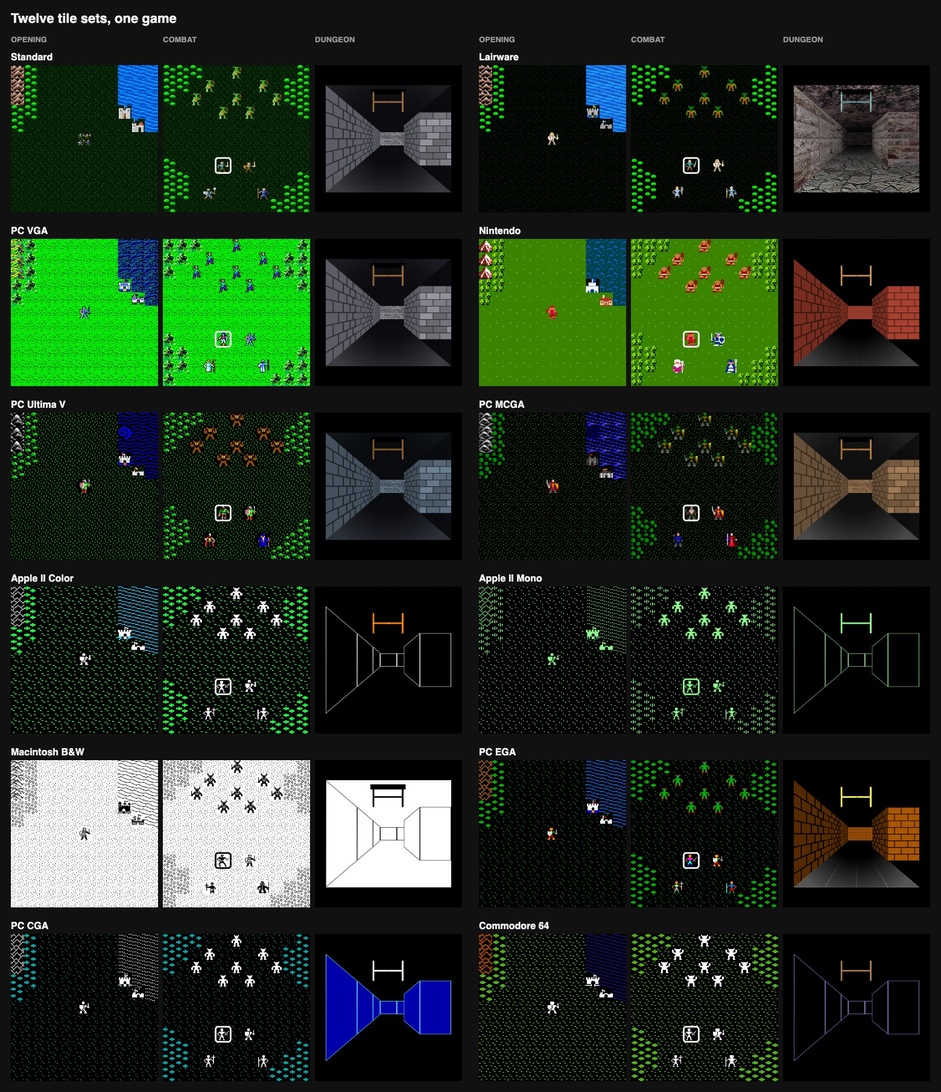
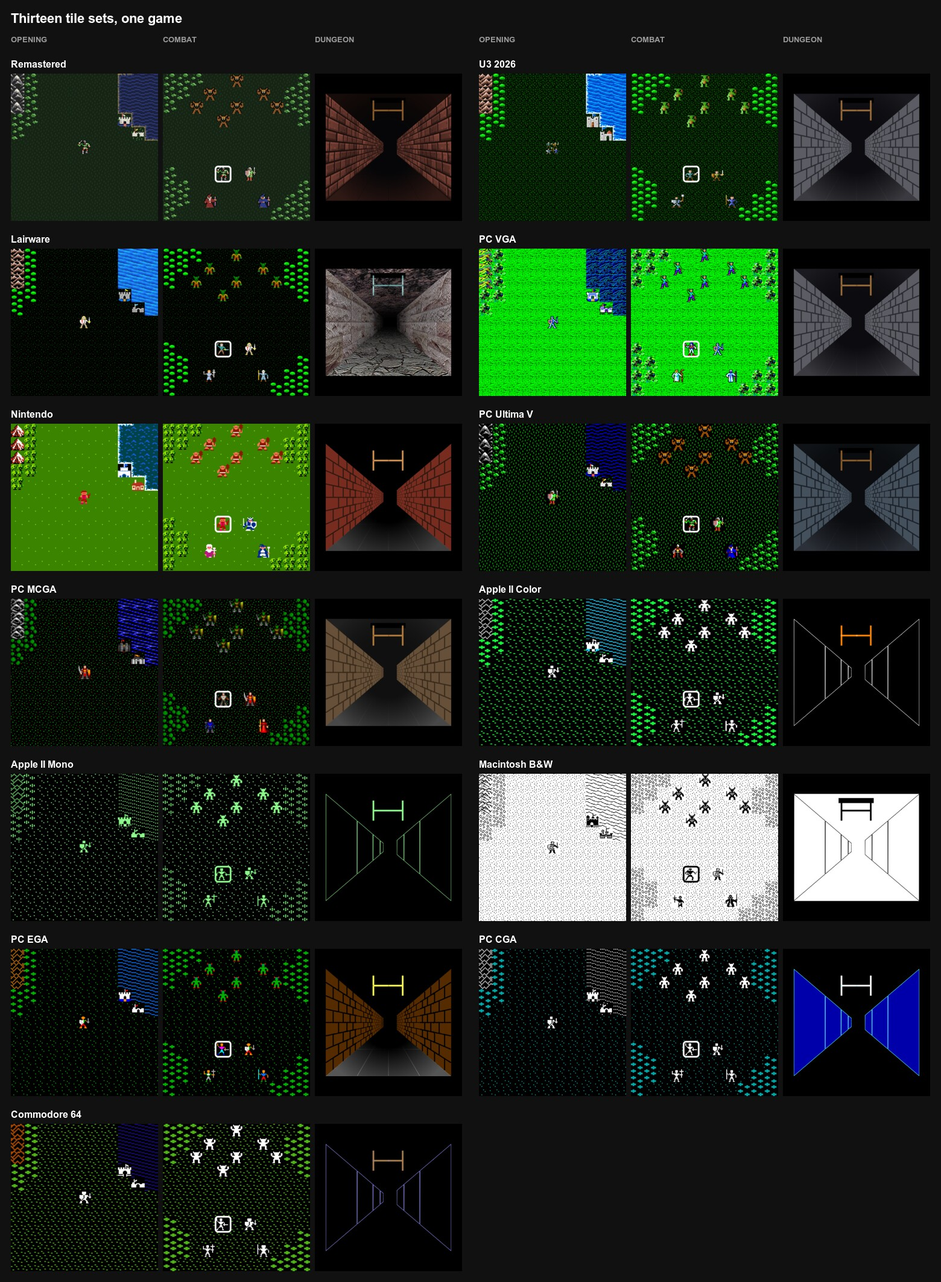
README: new feature and tile-set sheets for Remastered, and U3 2026 for Standard throughout
- promo/features.jpg: twelve shots of the Remastered look - Sosaria and a town in their frames, snap
  attacks and bolt aiming, a character's sheet and appearance, a dungeon in its own walls, the map of
  Sosaria, the journal, a controller's spell list, the fonts, and Ambrosia.
- promo/tile-sets.jpg: all thirteen tile sets, Remastered and U3 2026 first, at the opening, in a
  fight and in a dungeon.
- web/tools/promo/shots.js takes the shots in a development build (the game's canvas with its letters
  layer drawn in); web/tools/tile-sets-sheet.sh lays out the tile-set sheet as features-sheet.sh does
  the other, which before was laid out by hand.
- The README's captions and its remaining mentions of Standard as a look now say U3 2026 (the sound
  effects keep the name Standard, as the game does).

diff --git a/web/tools/promo/shots.js b/web/tools/promo/shots.js
@@ -1,0 +1,108 @@
+// The README's screenshots (promo/features.jpg, promo/tile-sets.jpg), taken from a development build. With the dev server
+// running, the screenshot server too (node web/tools/pilot/shots.mjs), and a page of the game open, in the console:
+//
+//     (0, eval)(await (await fetch('/tools/promo/shots.js')).text())
+//     await promo.tileSets()            // every look at the opening, in a fight and in a dungeon: ts-<look>-<scene>.png
+//     await promo.shot('f01-overworld') // the screen as it is now: f01-overworld.png
+//
+// A shot is the game's canvas with the letters set over it (src/ui/letterLayer.ts) drawn in, at the canvas's 1280 x 768;
+// `tileSets` keeps only the map's 704 x 704. Each lands in screenshots/ at the repository's root, where
+// web/tools/features-sheet.sh and web/tools/tile-sets-sheet.sh lay them out.
+//
+// tileSets goes from page to page itself (the dev starts, devStarts.ts), so it is run once per scene: it says which to
+// load next and is called again there. In a tab the browser has hidden, frames stop; the script keeps them coming.
+window.promo = (() => {
+  const SERVER = 'http://127.0.0.1:5199';
+  const LOOKS = [
+    'Remastered',
+    'Standard',
+    'Lairware',
+    'PC VGA',
+    'Nintendo',
+    'PC Ultima V',
+    'PC MCGA',
+    'Apple II Color',
+    'Apple II Mono',
+    'Macintosh B&W',
+    'PC EGA',
+    'PC CGA',
+    'Commodore 64',
+  ];
+  // The opening: a new game's square on Sosaria, by Lord British's castle. A fight with orcs. Doom's first corridor.
+  const SCENES = { opening: '/?at=world:42,20&peek', combat: '/?at=fight:orc&peek', dungeon: '/?at=place:doom&lit&peek' };
+  const wait = (ms) => new Promise((r) => setTimeout(r, ms));
+  const slug = (name) => name.toLowerCase().replace(/[^a-z0-9]+/g, '-');
+
+  /** Frames even in a hidden tab, and a turn that never passes by itself, so a scene holds still for its shots. */
+  function steady() {
+    window.requestAnimationFrame = (f) => setTimeout(() => f(performance.now()), 16);
+    const { screen, world } = window.u3;
+    world.timeLimit = () => undefined;
+    screen.frameAsked = false;
+    screen.wake();
+    // The letters too: a frame they asked for before this would never come.
+    screen.letters.frameAsked = false;
+    screen.letters.layout();
+  }
+
+  /** The canvas with the letters over it, or its `crop` [x, y, w, h] in canvas pixels. */
+  function picture(crop) {
+    const game = document.getElementById('screen');
+    const [x, y, w, h] = crop ?? [0, 0, game.width, game.height];
+    const out = document.createElement('canvas');
+    out.width = w;
+    out.height = h;
+    const ctx = out.getContext('2d');
+    ctx.drawImage(game, x, y, w, h, 0, 0, w, h);
+    const letters = game.nextElementSibling;
+    if (letters?.tagName === 'CANVAS' && letters.style.display !== 'none') {
+      const sx = letters.width / game.width;
+      const sy = letters.height / game.height;
+      ctx.drawImage(letters, x * sx, y * sy, w * sx, h * sy, 0, 0, w, h);
+    }
+    return out;
+  }
+
+  async function post(name, canvas) {
+    const blob = await new Promise((r) => canvas.toBlob(r, 'image/png'));
+    await fetch(`${SERVER}/?name=${encodeURIComponent(name)}`, { method: 'POST', body: blob });
+    return name;
+  }
+
+  /** The screen as it is now, saved as `name`.png. */
+  async function shot(name) {
+    steady();
+    await wait(400);
+    return post(name, picture());
+  }
+
+  /**
+   * Each look in turn at the scene this page is in (opening, combat or dungeon: the one whose address it is), its map
+   * saved as ts-<look>-<scene>.png. Then the next scene's address, to open and call this again; null after the last.
+   */
+  async function tileSets() {
+    const scene = Object.keys(SCENES).find((s) => window.location.search === SCENES[s].slice(1)) ?? 'opening';
+    steady();
+    await wait(1500);
+    const { screen } = window.u3;
+    if (screen.menu) {
+      window.dispatchEvent(new KeyboardEvent('keydown', { key: 'Escape', code: 'Escape', bubbles: true }));
+      await wait(500);
+    }
+    const cell = screen.cell;
+    for (const look of LOOKS) {
+      // A fight's outline on the first member in every look, its timer stopped: the same moment in each.
+      const fight = window.u3.world.combat;
+      if (fight) Object.assign(fight, { markedMember: 0, markedFor: 0, snapShown: -1 });
+      await screen.loadTiles(look);
+      screen.viewDirty = true;
+      await wait(900);
+      await post(`ts-${slug(look)}-${scene}`, picture([cell, cell, 22 * cell, 22 * cell]));
+    }
+    const names = Object.keys(SCENES);
+    const next = names[names.indexOf(scene) + 1];
+    return next ? SCENES[next] : null;
+  }
+
+  return { shot, tileSets, steady, picture, LOOKS, SCENES };
+})();

diff --git a/web/eslint.config.js b/web/eslint.config.js
@@ -25,12 +25,13 @@ export default tseslint.config(
       '@typescript-eslint/no-unused-vars': ['error', { argsIgnorePattern: '^_', varsIgnorePattern: '^_' }],
     },
   },
-  // The tools' plain JavaScript (tools/node-ts.mjs, the pilot) is outside the TypeScript project: no type information.
-  { files: ['**/*.mjs', 'tools/pilot/*.js'], extends: [tseslint.configs.disableTypeChecked] },
+  // The tools' plain JavaScript (tools/node-ts.mjs, the pilot, the promo shots) is outside the TypeScript project: no
+  // type information.
+  { files: ['**/*.mjs', 'tools/pilot/*.js', 'tools/promo/*.js'], extends: [tseslint.configs.disableTypeChecked] },
   { files: ['**/*.mjs'], languageOptions: { globals: { console: 'readonly', Buffer: 'readonly', URL: 'readonly' } } },
-  // The pilot is a script evaluated in the game's page.
+  // The pilot and the promo shots are scripts evaluated in the game's page.
   {
-    files: ['tools/pilot/*.js'],
+    files: ['tools/pilot/*.js', 'tools/promo/*.js'],
     languageOptions: {
       sourceType: 'script',
       globals: {

diff --git a/README.md b/README.md
@@ -22,14 +22,14 @@ changes:
    EGA, MCGA and VGA, the Ultima V look and the Macintosh black on
    white.
 3. Includes two updated looks, Remastered (the default, after the Ultima V
-   port's) and U3 2026 (called Standard before v1.0.87), with controller
+   port's) and U3 2026 (called Standard before v1.0.88), with controller
    play, new art and sound, and tweakable settings.
 
-![The Standard experience: a town, combat, controller mode, a dungeon in first person, with a map beside the view and top down, a dungeon's View map, the map of Sosaria as the party has seen it, the quest journal, Tips, a shop weighing its wares and the Pause menu](promo/features.jpg)
+![The Remastered look: Sosaria in its blue frame, a town in copper with its talk in sentence case, a fight with the snap target marked, a bolt spell being aimed, a character's sheet with the appearance editor, a dungeon in first person with the map beside it and top down, the map of Sosaria as the party has seen it, the quest journal, a controller's spell list with the spells of no use greyed, the Visuals menu in the Legible font, and Ambrosia in its gold frame](promo/features.jpg)
 
-![Twelve tile sets, each at the opening, in combat and in a dungeon](promo/tile-sets.jpg)
+![Thirteen tile sets, Remastered and U3 2026 first, each at the opening, in combat and in a dungeon](promo/tile-sets.jpg)
 
-The following were design principles for the updated Standard experience:
+The following were design principles for the updated looks:
 
 1. No changes to the core data files - it's Ultima III.
 2. Changes are all made with the spirit and look of the original, with
@@ -480,7 +480,7 @@ These apply whatever tile set and sound set are chosen.
 #### Sound
 
 - Two sets of effects, chosen in Settings: Standard, new and described
-  under the Standard changes below, and Lairware, the Macintosh port's
+  under the U3 2026 changes below, and Lairware, the Macintosh port's
   sampled set with a per-effect gain table that evens out its levels. Off
   silences them.
 - The same effect is not restarted within a few dozen milliseconds, a long
@@ -567,7 +567,7 @@ press. With Battery saver on, the demo runs a minute from the last press
 and then gives way to the title.
 LairWare's large "Ultima III" picture under the logo is left out, and its
 fight, five pictures in one look, is drawn from each tile set's own party,
-dragon, fire and lava. Standard's party meets PC Ultima V's dragon and
+dragon, fire and lava. U3 2026's party meets PC Ultima V's dragon and
 fire there, under a slate roof in its own grain.
 
 ### Changes to the historic modes
@@ -577,7 +577,7 @@ than the Mac version did.
 
 - The NES set's water has surf along its coasts, white and light blue
   speckle as Ultima: Exodus drew it, where LairWare's sheet had plain
-  water square against land. Standard has the same, in white foam over
+  water square against land. U3 2026 has the same, in white foam over
   its water. Only coasts in sight have it, on the map, in towns, in
   fights and in the opening's demo; the other sets keep the Apple II's
   plain water.
@@ -620,7 +620,7 @@ signs and messages, with shouts and abbreviations kept in capitals.
 
 ### U3 2026-specific changes
 
-U3 2026, called Standard before v1.0.87, is the port's own theme. It is meant to evoke the memory of a
+U3 2026, called Standard before v1.0.88, is the port's own theme. It is meant to evoke the memory of a
 classic PC VGA look, with a modern sensibility about color and design:
 how you vaguely remember the game through nostalgia glasses, rather than
 how any specific machine drew it. As I mentioned earlier - I played on the
@@ -672,7 +672,7 @@ those builds and a modern developer sensibility.
   and over the whole view for spells that change all of it, the light
   spells included. The other tile sets keep the original flash.
 - Seams in the scrolling water, lava and moongate tiles and the fringe
-  around creatures are repaired in the Standard sheet, and the Ranger has
+  around creatures are repaired in the U3 2026 sheet, and the Ranger has
   a second animation frame, so he no longer stands still.
 - The lettering is Sixtyfour, after the Commodore 64's letters, as in
   the Ultima V port's Standard look, with a true lowercase where

diff --git a/DEVELOPMENT.md b/DEVELOPMENT.md
@@ -36,15 +36,16 @@ The READMEs open with the banner, `promo/banner.jpg`: the wide capsule at
 twice its size. It, the logo (`promo/logo.png`), the Steam artwork and the
 boot screen are made by `web/tools/key-art.mjs` from the box (see
 [its README](web/art/box/README.md)). The two sheets after the banner are
-in [`promo/`](promo/): twelve screenshots of the Standard experience, and
-each of the twelve tile sets at the opening, in one fight and in one
-dungeon corridor. The shots are the game canvas captured through the
-debug hook `window.u3` in a development build. For the tile sets each
-scene is set up once and redrawn in every set, so a row compares the same
-moment; that sheet was laid out on a browser canvas. The features sheet's
-shots are saved to `screenshots/` by `web/tools/pilot/shots.mjs` and laid
-out by `web/tools/features-sheet.sh` (ImageMagick 7), which names each
-shot and its caption. Both are JPEG.
+in [`promo/`](promo/): twelve screenshots of the Remastered look, and each
+of the thirteen tile sets at the opening, in one fight and in one dungeon
+corridor. The shots are taken in a development build by
+`web/tools/promo/shots.js`, pasted into the console as the pilot is: a shot
+is the game canvas with the letters layer drawn in (`promo.shot(name)`),
+and `promo.tileSets()` sets each scene up once and redraws it in every
+set, so a row compares the same moment. `web/tools/pilot/shots.mjs` saves
+them to `screenshots/`, and `web/tools/features-sheet.sh` and
+`web/tools/tile-sets-sheet.sh` (ImageMagick 7) lay them out, naming each
+shot. Both are JPEG.
 
 Inside the app, F11 or Alt+Enter toggles full screen, as do the system's
 own controls (macOS's green button) and the touch pad's full-screen switch
